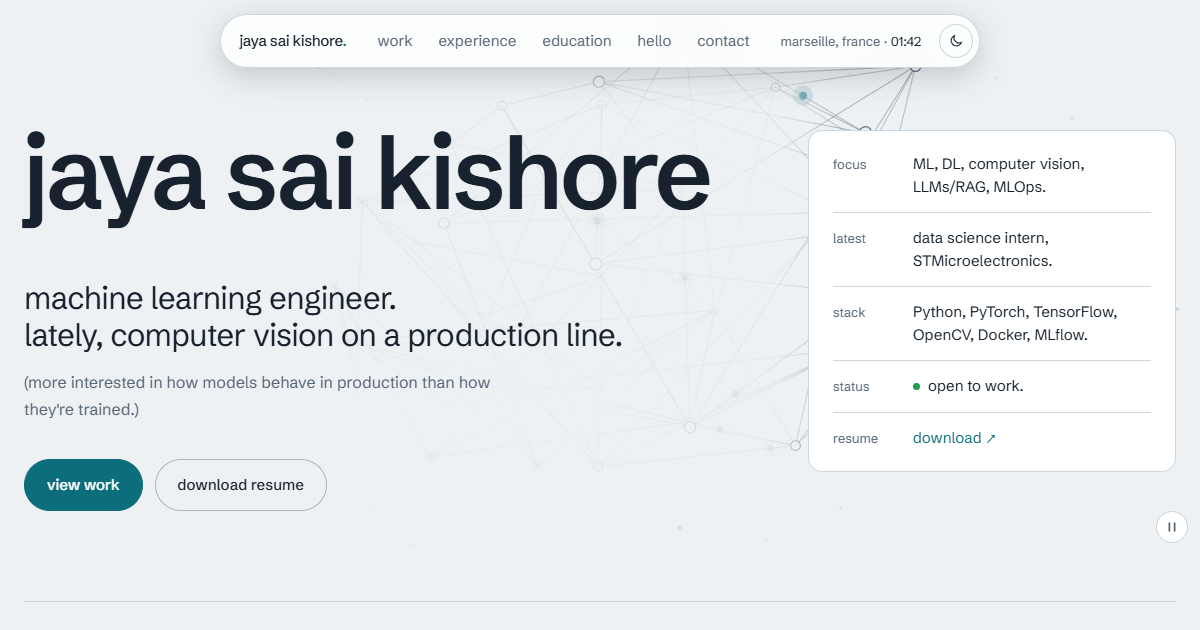
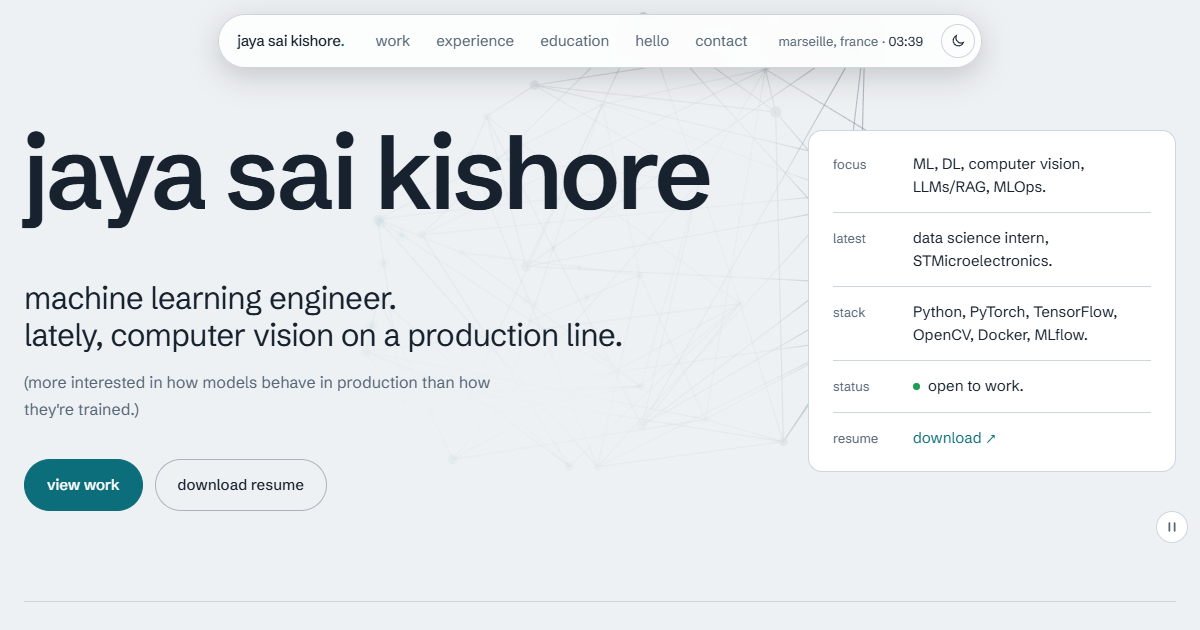
Hero network: "rotating layers" style with a slow full turn
- Plexus field removed (particles, drift, pair-distance loop and their
  constants deleted), including the small-screen particle logic.
- Neurons are solid dots: --border-strong at rest, blending toward the wave
  colour and growing slightly near it; far ones smaller and fainter, drawn
  far → near after the lines. Lines unchanged.
- The sway is replaced by a continuous turn around Y, one per minute
  (ROTATION_PERIOD_MS = 60000), driven by animation time: pausing freezes
  it and play continues from the same angle. Reduced motion: still picture
  at 0.55 rad.
- The note's extra fade 75% -> 85% keeps it >= 4.5:1 at every angle
  (measured over a full turn: worst 4.58, phone light).
- Link-preview image regenerated.

Changed region(s): [[0.6475, 0.0603, 0.8325, 0.2111], [0.37, 0.0603, 0.6167, 0.0905], [0.185, 0.0603, 0.3392, 0.0905]]

diff --git a/src/utils/neuralNet3d.js b/src/utils/neuralNet3d.js
@@ -1,11 +1,13 @@
 /**
- * Drawing logic for the 3D "plexus depth" neural network (used by NeuralNet.jsx).
+ * Drawing logic for the 3D "rotating layers" neural network (used by NeuralNet.jsx).
  * Plain functions, no React and no libraries: build the scene once, then draw
  * a frame for a given time onto a 2D canvas.
  *
- *   Layer B (behind): a plexus field of slowly drifting particles, joined when close.
- *   Layer A (front):  a 5-layer network of neuron rings, with a propagation wave
- *                     and dots running along its connections.
+ * The scene: 5 layers of neurons along X, each a ring in the Y–Z plane, every
+ * neuron linked to 3 neurons of the next layer (seeded, so the same network on
+ * every visit). A propagation wave runs forward then backward through it, with
+ * dots travelling the whole network along with the wave. The network turns
+ * slowly around Y, one full turn a minute (and tilts a little toward the mouse).
  *
  * "3D" is a small hand-rolled projection: rotate around Y, tilt around X, then
  * perspective (scale = CAMERA / (CAMERA + z)).
@@ -17,7 +19,7 @@
 export const CYCLE_MS = 30000;
 const HALF_MS = CYCLE_MS / 2;
 
-// ---------- the network (layer A) ----------
+// ---------- the network ----------
 
 const LAYERS = [
   { x: -1.6, count: 5, radius: 0.55 },
@@ -27,27 +29,18 @@ const LAYERS = [
   { x: 1.6, count: 4, radius: 0.45 },
 ];
 const LINKS_PER_NEURON = 3;
-const SEED = 20261120; // fixed: the same network and field on every visit
+const SEED = 20261120; // fixed: the same network on every visit
 const WAVE_WIDTH = 0.55; // Gaussian sigma, in layers
 const DOT_COUNT = 14;
 const DOT_SPREAD = 0.35; // dots run up to ± this many layers ahead of / behind the wave
 const DOT_FADE = 0.5; // in layers: fade in after leaving the first neuron, out before the last
 
-// ---------- the plexus field (layer B) ----------
-
-const PARTICLES = 70;
-const PARTICLES_SMALL = 40; // screens narrower than 768px
-const FIELD = { x: 2.5, y: 1.4, z: 1.5 }; // half-sizes of the box
-const LINK_DISTANCE = 0.6;
-const DRIFT_PER_MS = 0.00004; // very slow
-const FIELD_ROTATION = 0.6; // the field turns at 0.6× the camera: it feels farther away
-
 // ---------- camera ----------
 
 const TILT = 0.3; // rad, around X
-const SWAY_CENTRE = 0.55; // rad, around Y
-const SWAY_AMOUNT = 0.45;
-const SWAY_PERIOD_MS = 50000;
+/** One full turn around Y, in ms. Driven by animation time, so pausing freezes it. */
+export const ROTATION_PERIOD_MS = 60000;
+const START_ANGLE = 0.55; // rad around Y: where the turn starts, and the reduced-motion still picture
 const CAMERA = 4;
 
 /** Small, fast, seeded random generator (mulberry32). */
@@ -61,8 +54,8 @@ function seededRandom(seed) {
   };
 }
 
-/** Builds the network, the plexus particles and the moving dots. `small`: fewer particles. */
-export function buildScene({ small = false } = {}) {
+/** Builds the network (neurons, seeded connections) and the moving dots. */
+export function buildScene() {
   const random = seededRandom(SEED);
 
   const neurons = [];
@@ -90,20 +83,6 @@ export function buildScene({ small = false } = {}) {
     }
   }
 
-  const particles = Array.from({ length: small ? PARTICLES_SMALL : PARTICLES }, () => {
-    // A random direction, all at the same slow speed.
-    const a = random() * Math.PI * 2;
-    const b = Math.acos(random() * 2 - 1);
-    return {
-      x: (random() * 2 - 1) * FIELD.x,
-      y: (random() * 2 - 1) * FIELD.y,
-      z: (random() * 2 - 1) * FIELD.z,
-      vx: Math.sin(b) * Math.cos(a) * DRIFT_PER_MS,
-      vy: Math.sin(b) * Math.sin(a) * DRIFT_PER_MS,
-      vz: Math.cos(b) * DRIFT_PER_MS,
-    };
-  });
-
   // Each dot rides the wave along a full path through the network (picked anew
   // for every forward and every backward pass); the offset keeps them a loose group.
   const dots = Array.from({ length: DOT_COUNT }, () => ({
@@ -114,12 +93,10 @@ export function buildScene({ small = false } = {}) {
   return {
     neurons,
     edges,
-    particles,
     dots,
     firstLayer: byLayer[0],
     lastLayer: byLayer[LAYERS.length - 1],
     pass: -1, // which half-cycle the dots' paths were picked for
-    lastTime: 0,
     tiltX: 0, // parallax, eased toward the target each frame
     tiltY: 0,
   };
@@ -141,11 +118,10 @@ export function readColours(element = document.documentElement) {
   const style = getComputedStyle(element);
   const get = (name) => parseColour(style.getPropertyValue(name));
   return {
-    bg: get("--bg"),
-    base: get("--border-strong"), // plexus field
-    line: get("--muted"), // network lines and neuron outlines: darker, in front of the field
-    forward: get("--accent"),
-    backward: get("--muted"),
+    neuron: get("--border-strong"), // neurons at rest
+    line: get("--muted"), // connections at rest
+    forward: get("--accent"), // the wave going forward
+    backward: get("--muted"), // the wave going back
   };
 }
 
@@ -181,10 +157,10 @@ export function makeCalmMask(width, height, rect, dpr) {
 /**
  * Draws the scene at `time` (ms of animation time).
  * options: width/height (CSS px; the context is already scaled for the DPR),
- * colours, still (reduced motion: no drift, rotation, wave or dots),
+ * colours, still (reduced motion: no rotation, wave or dots),
  * pointer (target parallax, -1…1 on each axis, or null), calm ({ mask,
- * field, network, extras }: how much of each layer to erase behind the text
- * block, plus extra masks behind single lines that need more).
+ * network, extras }: how much to erase behind the text block, plus extra
+ * masks behind single lines that need more).
  */
 export function drawFrame(ctx, scene, { width, height, time, colours, still = false, pointer = null, calm = null }) {
   ctx.clearRect(0, 0, width, height);
@@ -194,75 +170,34 @@ export function drawFrame(ctx, scene, { width, height, time, colours, still = fa
     scene.tiltY += (pointer.x * 0.35 - scene.tiltY) * 0.04; // eased, ~4% per frame
     scene.tiltX += (pointer.y * 0.25 - scene.tiltX) * 0.04;
   }
-  const sway = still ? SWAY_CENTRE : SWAY_CENTRE + SWAY_AMOUNT * Math.sin((time / SWAY_PERIOD_MS) * Math.PI * 2);
-  const yaw = sway + (still ? 0 : scene.tiltY);
+  // A continuous turn: `time` only advances while the animation runs, so a pause
+  // freezes the angle and play continues from it, with no jump.
+  const turn = still ? START_ANGLE : START_ANGLE + ((time % ROTATION_PERIOD_MS) / ROTATION_PERIOD_MS) * Math.PI * 2;
+  const yaw = turn + (still ? 0 : scene.tiltY);
   const pitch = TILT + (still ? 0 : scene.tiltX);
 
-  // Fit: fill the height on wide screens; on tall narrow screens let the outer layers
-  // run past the sides, so the network doesn't shrink to a thin strip.
+  // Fit (sized for the side view, the widest moment of the turn): fill the height on
+  // wide screens; on tall narrow screens let the outer layers run past the sides, so
+  // the network doesn't shrink to a thin strip.
   const portrait = height > width;
   const unit = Math.min(height / 2.6, width / (portrait ? 2.6 : 4));
   const cx = width / 2;
   const cy = height / 2;
 
-  const projector = (yawAngle, pitchAngle) => {
-    const cosY = Math.cos(yawAngle), sinY = Math.sin(yawAngle);
-    const cosX = Math.cos(pitchAngle), sinX = Math.sin(pitchAngle);
-    return (x, y, z) => {
-      const x1 = x * cosY + z * sinY;
-      const z1 = -x * sinY + z * cosY;
-      const y2 = y * cosX - z1 * sinX;
-      const z2 = y * sinX + z1 * cosX;
-      const scale = CAMERA / (CAMERA + z2);
-      return { sx: cx + x1 * scale * unit, sy: cy - y2 * scale * unit, z: z2, scale };
-    };
-  };
+  const cosY = Math.cos(yaw), sinY = Math.sin(yaw);
+  const cosX = Math.cos(pitch), sinX = Math.sin(pitch);
+  const nodes = scene.neurons.map(({ x, y, z }) => {
+    const x1 = x * cosY + z * sinY;
+    const z1 = -x * sinY + z * cosY;
+    const y2 = y * cosX - z1 * sinX;
+    const z2 = y * sinX + z1 * cosX;
+    const scale = CAMERA / (CAMERA + z2);
+    return { sx: cx + x1 * scale * unit, sy: cy - y2 * scale * unit, z: z2, scale };
+  });
   // Depth fade: far things fainter (scale ~0.75 far … ~1.35 near).
   const depth = (scale) => Math.min(1, Math.max(0.25, (scale - 0.7) / 0.55));
 
-  // ----- layer B: plexus field -----
-  const step = still ? 0 : Math.min(time - scene.lastTime, 100);
-  scene.lastTime = time;
-  const fieldProject = projector(yaw * FIELD_ROTATION, pitch * FIELD_ROTATION);
-  const wrap = (v, half) => (v > half ? v - 2 * half : v < -half ? v + 2 * half : v);
-  const pts = scene.particles.map((p) => {
-    p.x = wrap(p.x + p.vx * step, FIELD.x);
-    p.y = wrap(p.y + p.vy * step, FIELD.y);
-    p.z = wrap(p.z + p.vz * step, FIELD.z);
-    return fieldProject(p.x, p.y, p.z);
-  });
-
-  ctx.strokeStyle = rgb(colours.base);
-  ctx.lineWidth = 1;
-  const limit2 = LINK_DISTANCE * LINK_DISTANCE;
-  const ps = scene.particles;
-  for (let i = 0; i < ps.length; i++) {
-    for (let j = i + 1; j < ps.length; j++) {
-      const dx = ps[i].x - ps[j].x, dy = ps[i].y - ps[j].y, dz = ps[i].z - ps[j].z;
-      const d2 = dx * dx + dy * dy + dz * dz;
-      if (d2 >= limit2) continue; // only close pairs need the (slower) square root
-      ctx.globalAlpha = 0.6 * (1 - Math.sqrt(d2) / LINK_DISTANCE) * depth((pts[i].scale + pts[j].scale) / 2);
-      ctx.beginPath();
-      ctx.moveTo(pts[i].sx, pts[i].sy);
-      ctx.lineTo(pts[j].sx, pts[j].sy);
-      ctx.stroke();
-    }
-  }
-  ctx.fillStyle = rgb(colours.base);
-  for (const p of pts) {
-    ctx.globalAlpha = 0.8 * depth(p.scale);
-    ctx.beginPath();
-    ctx.arc(p.sx, p.sy, 1.7 * p.scale, 0, Math.PI * 2);
-    ctx.fill();
-  }
-
-  // The field almost disappears behind the text.
-  if (calm) erase(ctx, calm.mask, calm.field, width, height);
-
-  // ----- layer A: the network -----
-  const project = projector(yaw, pitch);
-  const nodes = scene.neurons.map((n) => project(n.x, n.y, n.z));
-
+  // ----- the wave -----
   const phase = time % CYCLE_MS;
   const forward = phase < HALF_MS;
   const progress = (forward ? phase : phase - HALF_MS) / HALF_MS;
@@ -273,7 +208,7 @@ export function drawFrame(ctx, scene, { width, height, time, colours, still = fa
     still ? 0 : Math.exp(-((n.layer - wave) ** 2) / (2 * WAVE_WIDTH * WAVE_WIDTH))
   );
 
-  // Lines
+  // ----- 1. connections: brighter and thicker near the wave -----
   ctx.lineCap = "round";
   for (const { from, to } of scene.edges) {
     const a = nodes[from], b = nodes[to];
@@ -287,8 +222,8 @@ export function drawFrame(ctx, scene, { width, height, time, colours, still = fa
     ctx.stroke();
   }
 
-  // Dots travel with the wave along whole paths: first layer → last going
-  // forward, last → first going back (drawn under the neurons).
+  // ----- 2. dots travelling with the wave along whole paths: first layer → last
+  // going forward, last → first going back (drawn under the neurons) -----
   if (!still) {
     const pass = Math.floor(time / HALF_MS);
     if (pass !== scene.pass) {
@@ -321,33 +256,21 @@ export function drawFrame(ctx, scene, { width, height, time, colours, still = fa
     }
   }
 
-  // Neurons, far → near: hollow rings (--bg inside); the centre fills as the wave passes.
+  // ----- 3. neurons, far → near: solid dots, blending toward the wave colour
+  // and growing slightly as it passes; far ones smaller and fainter -----
   const order = nodes.map((_, i) => i).sort((p, q) => nodes[q].z - nodes[p].z);
   for (const idx of order) {
     const p = nodes[idx];
     const i = intensity[idx];
-    const r = (4.2 + 1.4 * i) * p.scale;
-    const d = depth(p.scale);
-    ctx.globalAlpha = d;
-    ctx.fillStyle = rgb(colours.bg);
+    ctx.globalAlpha = (0.7 + 0.3 * i) * depth(p.scale);
+    ctx.fillStyle = mix(colours.neuron, glow, i);
     ctx.beginPath();
-    ctx.arc(p.sx, p.sy, r, 0, Math.PI * 2);
+    ctx.arc(p.sx, p.sy, (3.6 + 1.6 * i) * p.scale, 0, Math.PI * 2);
     ctx.fill();
-    ctx.strokeStyle = mix(colours.line, glow, i);
-    ctx.lineWidth = 1.2;
-    ctx.stroke();
-    if (i > 0.02) {
-      ctx.globalAlpha = d * i;
-      ctx.fillStyle = rgb(glow);
-      ctx.beginPath();
-      ctx.arc(p.sx, p.sy, r * 0.6, 0, Math.PI * 2);
-      ctx.fill();
-    }
   }
 
-  // The network fades behind the text block too.
+  // ----- calm behind the text -----
   if (calm) erase(ctx, calm.mask, calm.network, width, height);
-  // And extra, behind single lines that need it (both layers).
   for (const extra of calm?.extras ?? []) erase(ctx, extra.mask, extra.amount, width, height);
 
   ctx.globalAlpha = 1;

diff --git a/src/components/Hero/NeuralNet.jsx b/src/components/Hero/NeuralNet.jsx
@@ -4,14 +4,13 @@ import "./NeuralNet.css";
 
 const FRAME_MS = 1000 / 30; // ~30 fps is plenty for slow motion, and halves the work
 const MAX_STEP_MS = 100; // after a stall (busy tab), don't jump ahead
-const SMALL_SCREEN = 768; // below this: fewer plexus particles
 
-// How much of each layer to erase behind the hero's text block (0…1), so the
+// How much of the network to erase behind the hero's text block (0…1), so the
 // name, tagline, note and meta line keep at least 4.5:1 contrast (measured).
-const CALM = { field: 0.3, network: 0.85 };
-// Extra fade behind single lines of text that need it (both layers), measured:
+const CALM = { network: 0.85 };
+// Extra fade behind single lines of text that need it, measured:
 // the muted note line was the only one under 4.5:1 at full network strength.
-const CALM_EXTRA = [{ selector: ".hero-note", amount: 0.75 }];
+const CALM_EXTRA = [{ selector: ".hero-note", amount: 0.85 }];
 
 const VARIANTS = {
   // Faint, behind the whole hero, calm behind its text, with a pause button.
@@ -21,7 +20,7 @@ const VARIANTS = {
 };
 
 /**
- * The 3D "plexus depth" neural network on a canvas (drawing logic in
+ * The 3D "rotating layers" neural network on a canvas (drawing logic in
  * src/utils/neuralNet3d.js). Decorative: aria-hidden.
  *
  * Performance: one requestAnimationFrame loop drawing straight to the canvas,
@@ -122,10 +121,7 @@ export class NeuralNet extends PureComponent {
     canvas.height = Math.round(height * dpr);
     this.ctx.setTransform(dpr, 0, 0, dpr, 0, 0);
     this.size = { width, height, dpr };
-
-    // Fewer particles on small screens (the field is rebuilt only when crossing the threshold).
-    const small = window.innerWidth < SMALL_SCREEN;
-    if (!this.scene || this.scene.small !== small) this.scene = { ...buildScene({ small }), small };
+    if (!this.scene) this.scene = buildScene();
 
     if (this.calmTarget) {
       // Layout position (offset*), so the hero's entrance transform doesn't shift it.
